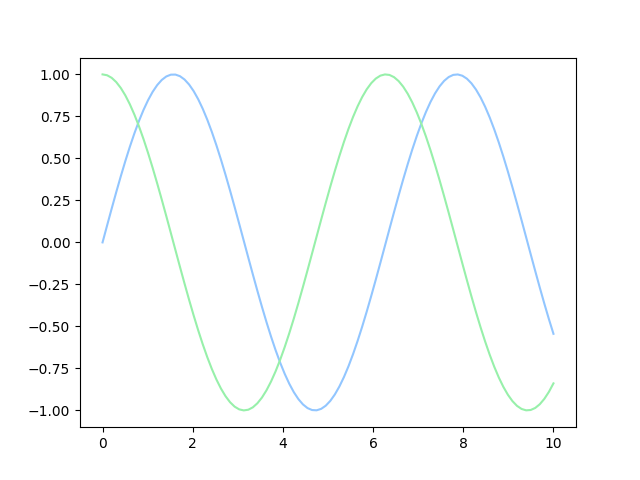
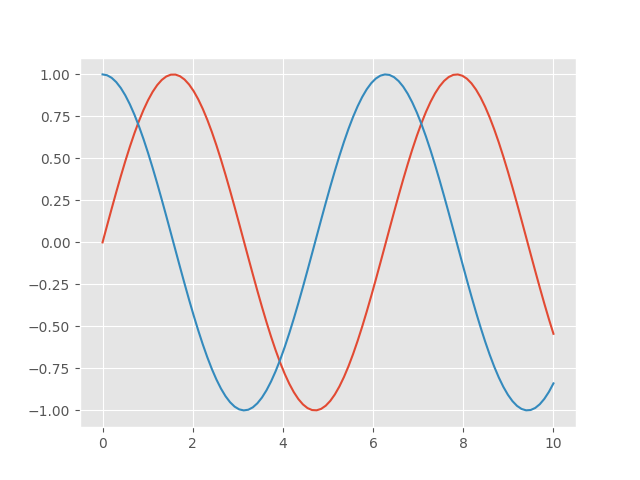
histograms

diff --git a/histogram.py b/histogram.py
@@ -5,3 +5,21 @@ plt.style.use('ggplot')
 # generate data
 rng = np.random.default_rng(1701)
 data = rng.normal(size=1000)
+
+plt.hist(data)
+plt.savefig('histogram.png')
+plt.close()
+
+# more customized histogram
+plt.hist(data, bins=30, density=True, alpha=0.5, histtype='stepfilled', color='turquoise', edgecolor='none')
+plt.savefig('histogram2.png')
+plt.close()
+
+# hexagonal binnings
+mean = [0, 0]
+cov = [[1, 1], [1, 2]]
+x, y = rng.multivariate_normal(mean, cov, 10000).T
+plt.hexbin(x, y, gridsize=50)
+cb = plt.colorbar(label='count in bin')
+plt.savefig('histogram3.png')
+plt.close()

diff --git a/scatterplot.py b/scatterplot.py
@@ -3,7 +3,7 @@ import numpy as np
 from sklearn.datasets import load_iris
 
 # set style
-plt.style.use('ggplot')
+plt.style.use('bmh')
 
 # generate data points
 rng = np.random.default_rng(0)
